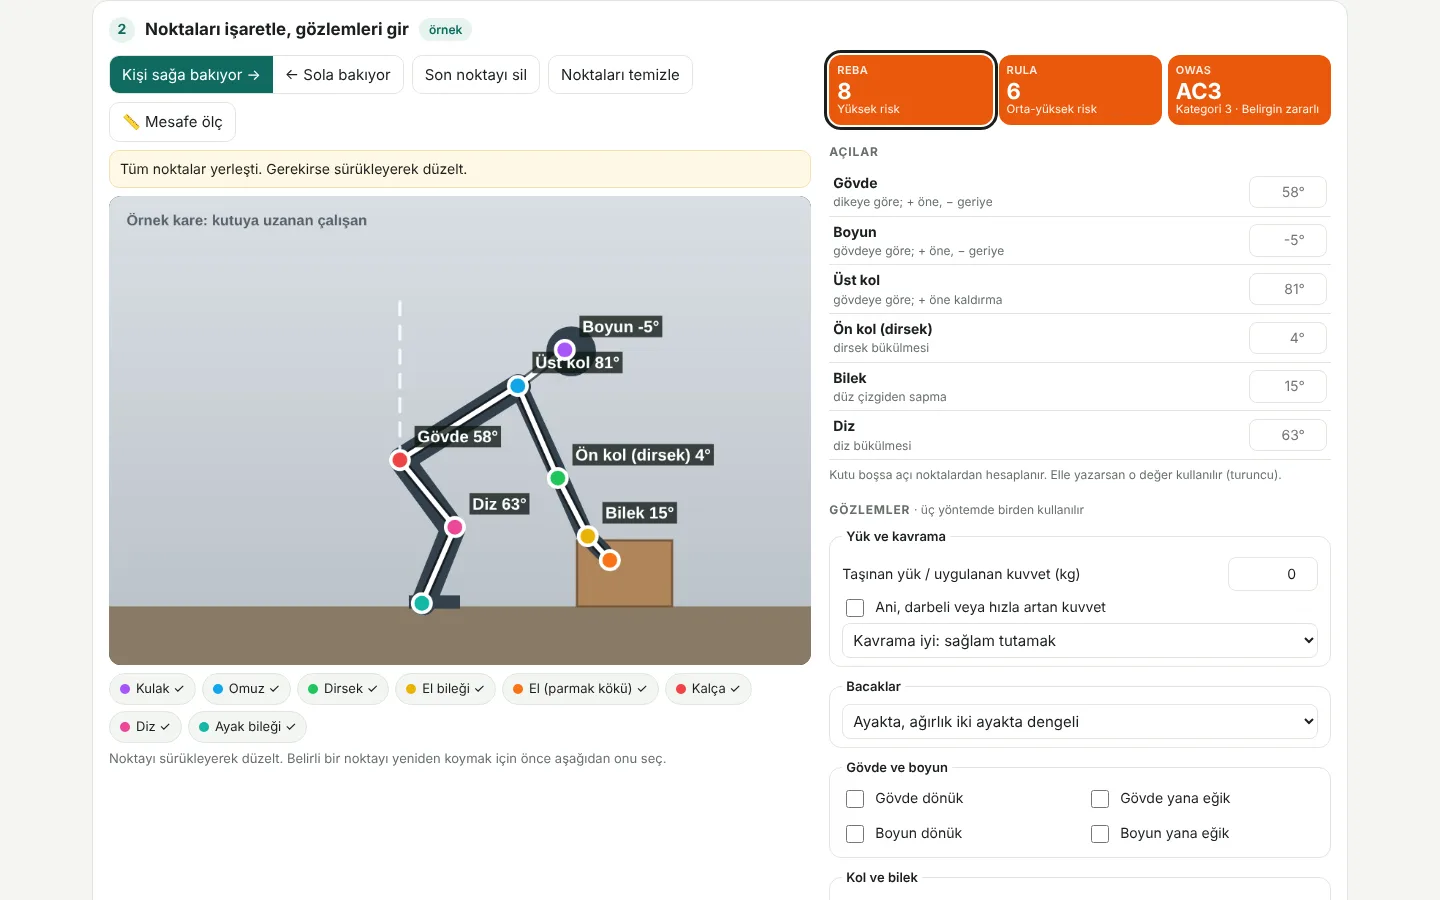
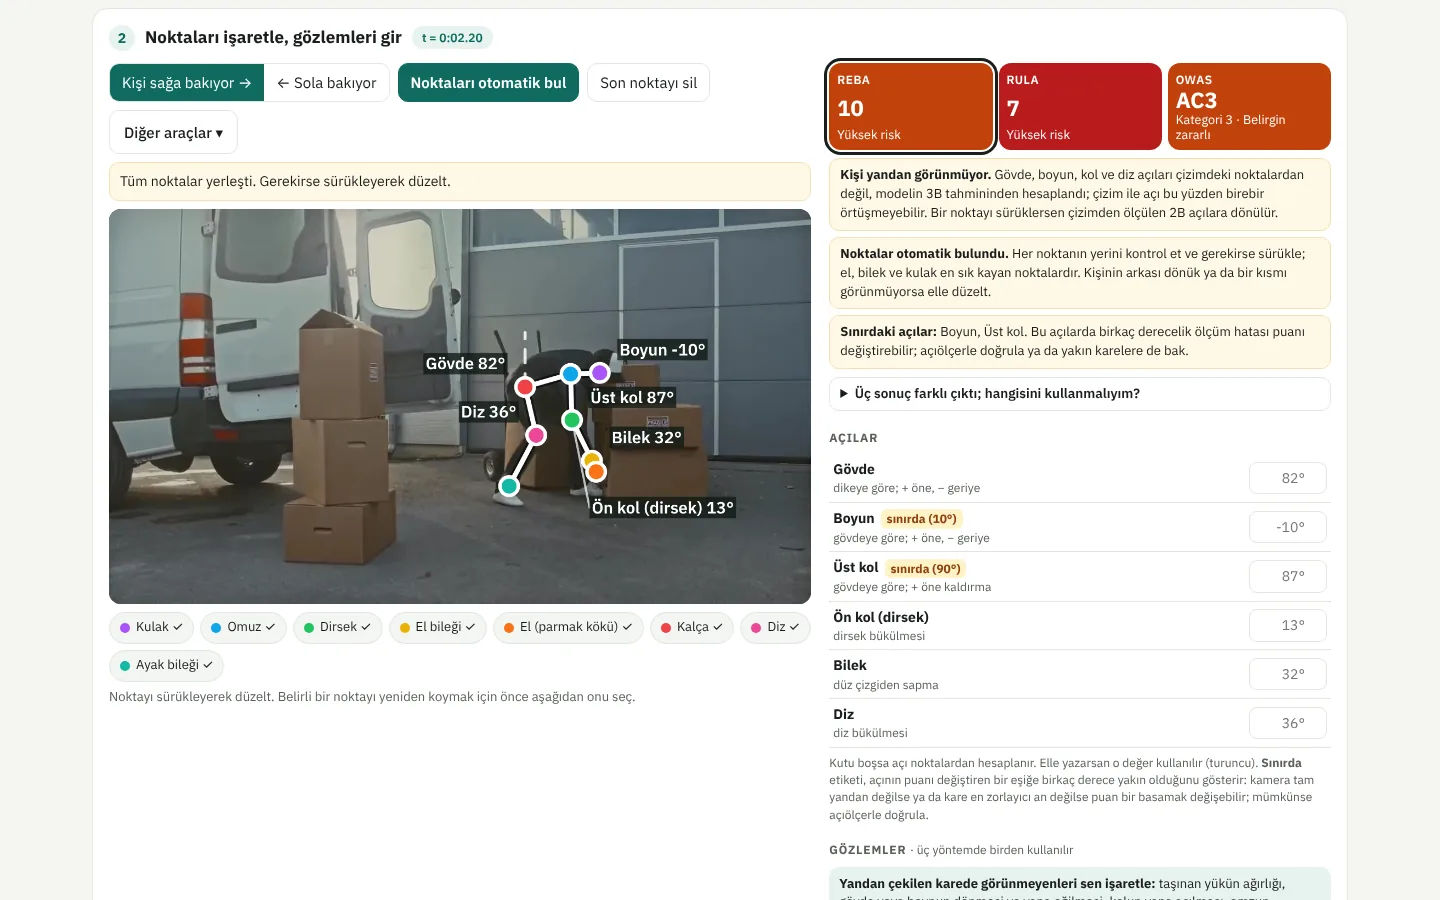
README: gerçek depo videosundan analiz ekran görüntüsü (#33)
Claude-Session: https://claude.ai/code/session_01QKvCntBKaGf4XWtX5Cn9UB

diff --git a/README.md b/README.md
@@ -8,7 +8,9 @@
 
 > **English:** Duruş is an ergonomic risk analysis app (REBA, RULA, OWAS, QEC, NIOSH lifting equation, KIM, Liberty Mutual, OCRA, ROSA, Nordic questionnaire and more) with Excel/PDF reports. Use it in the browser at durus.ysfdurak.com/en/ or download the Windows app from Releases. Records stay on your device.
 
-![Duruş analizi: örnek karede eklemler işaretlenmiş, REBA, RULA ve OWAS birlikte hesaplanmış](docs/ekran/durus-analizi.webp)
+![Duruş analizi: gerçek bir depo videosunda koliyi yerden alan çalışanın eklemleri otomatik bulunmuş; gövde 82°, 12 kg yükle REBA 10](docs/ekran/durus-analizi.webp)
+
+<sub>Ekrandaki kare gerçek bir depo videosundan (Pexels, Pexels Lisansı; yüzler bulanıklaştırıldı). Kişi yandan görünmediği için açılar modelin 3B tahmininden hesaplandı.</sub>
 
 
 **Kurumda kullanacaksan:** Çalışanların kişisel verisi işlenir. KVKK notları, çalışan duyurusu ve (video projelerinde) çekim öncesi onay şablonu: [docs/KVKK_VE_CALISAN_BILGILENDIRME.md](docs/KVKK_VE_CALISAN_BILGILENDIRME.md).
